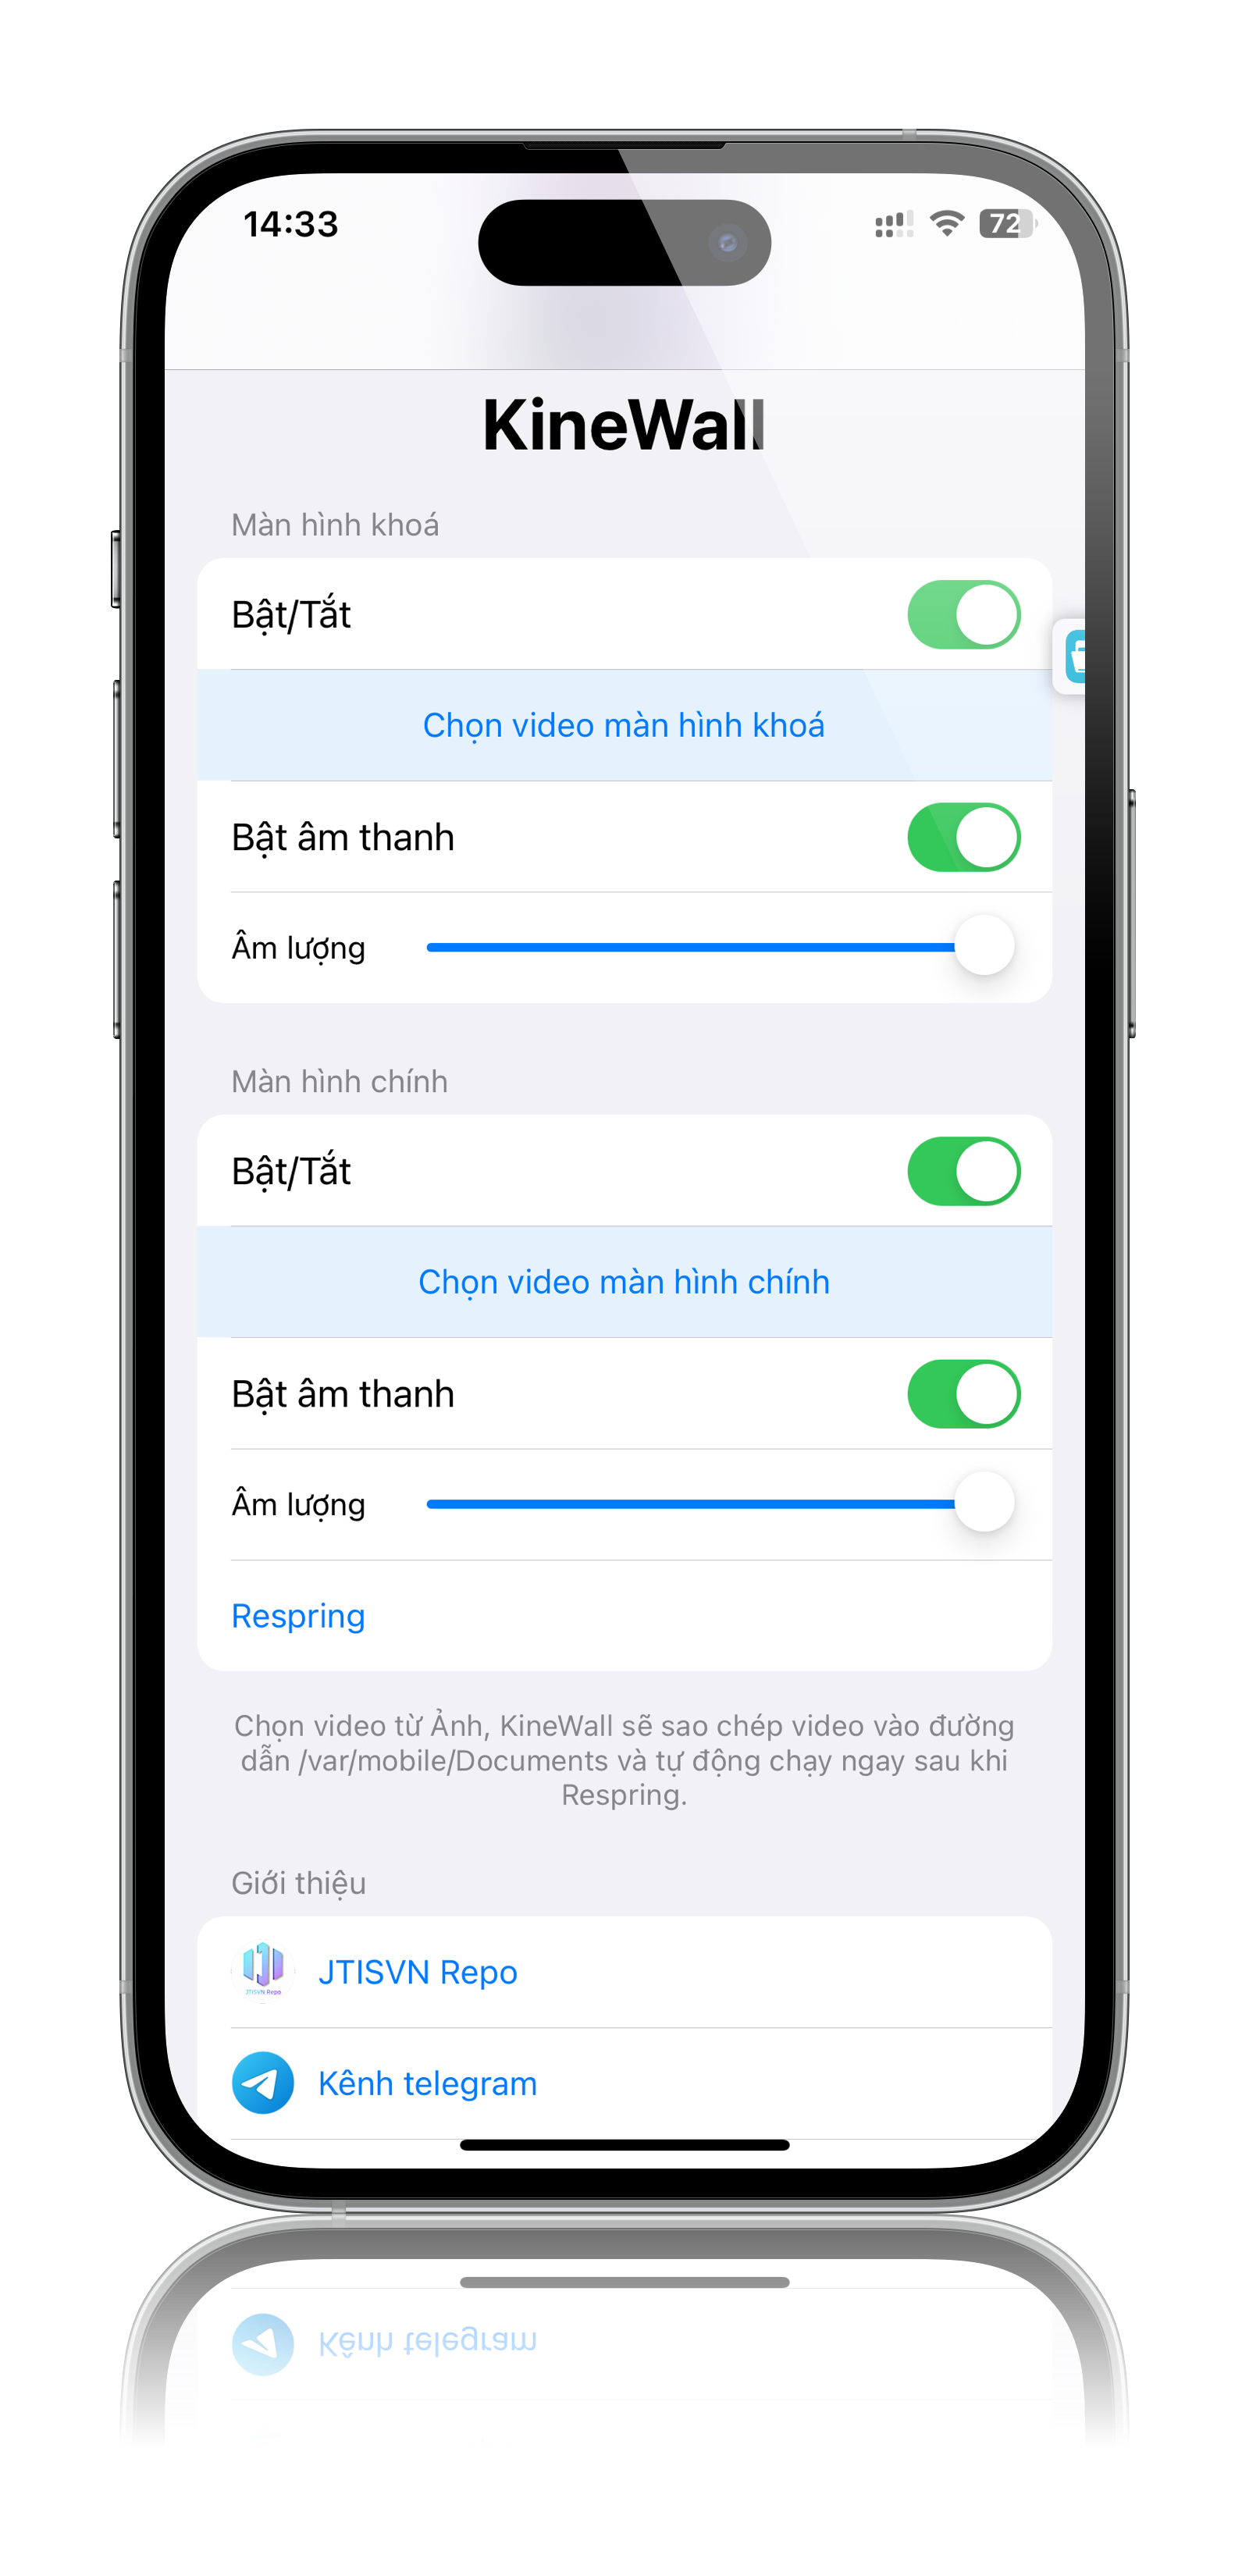
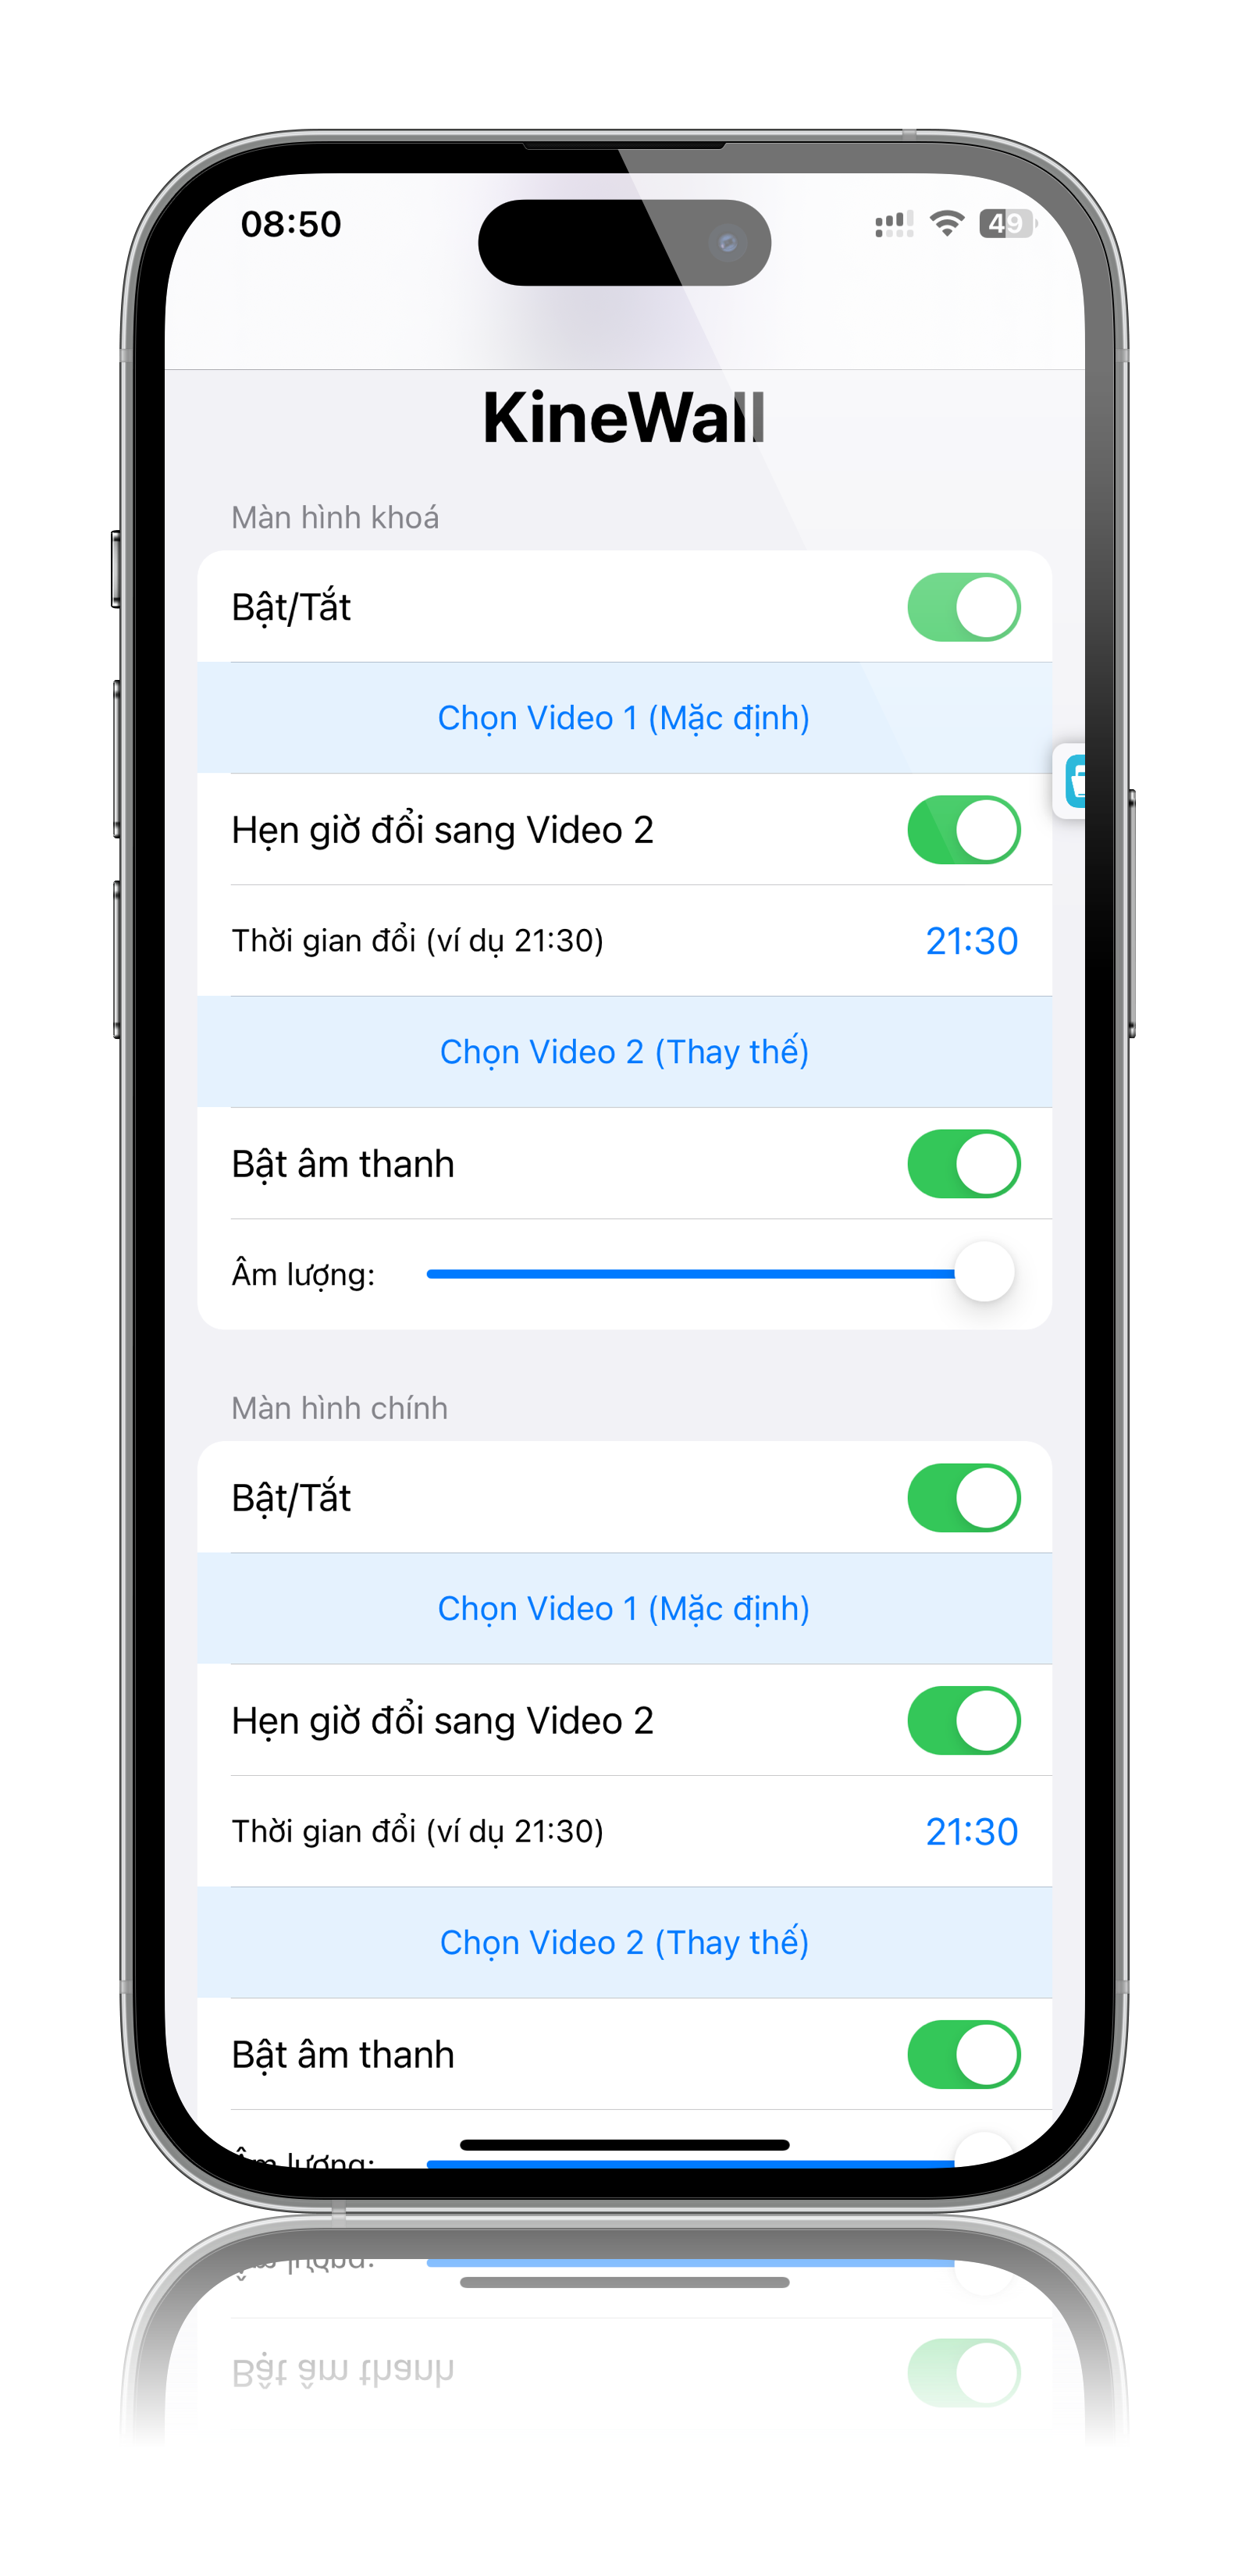
Update: 15-01-2026 09:19

diff --git a/depictions/KineWall.html b/depictions/KineWall.html
@@ -269,7 +269,7 @@
 </head>
 <body>
 
-    <div id="prerequisite" data-min-ios="16.0" data-max-ios="16.8" style="display:none;"></div>
+    <div id="prerequisite" data-min-ios="16.0" data-max-ios="16.6.1" style="display:none;"></div>
 
     <img src="https://jtisvn.github.io/coverimage/jtisvnrepo.png" alt="KineWall Banner" class="banner">
 
@@ -295,15 +295,17 @@
                 <p><strong>KineWall</strong></p>
                 <ul>
                     <li>Ứng dụng cho phép bạn cài đặt Video làm hình nền cho Màn hình khóa và Màn hình chính một cách dễ dàng.</li>
+                    <li>Chỉ hoạt động trên thiết bị <strong>chip A12 trở lên</strong> chạy iOS 16+.</li>
                 </ul>
                 <p><strong>Tính năng:</strong></p>
                 <ul>
                     <li>Tùy chọn video riêng biệt cho màn hình khóa và màn hình chính.</li>
                     <li>Hỗ trợ bật/tắt âm thanh của video.</li>
                     <li>Thanh trượt điều chỉnh mức âm lượng video.</li>
+                    <li>Hẹn giờ đổi video tự động theo ý muốn.</li>
                 </ul>
                 <p style="color: #ff3b30; font-weight: bold; background: rgba(255, 59, 48, 0.1); padding: 10px; border-radius: 8px;">
-                    ⚠️ Lưu ý: Chỉ hoạt động trên thiết bị chip A12 iOS 16 trở lên.
+                    ⚠️ Lưu ý quan trọng: Yêu cầu tải gói <strong>oldabi-stub</strong> (nếu dùng Rootless) hoặc <strong>oldabi</strong> (nếu dùng Roothide) trước khi cài đặt tweak này.
                 </p>
             </div>
 
@@ -321,22 +323,22 @@
                         <span class="info-value">Applications</span>
                     </div>
                     <div class="info-item">
-                        <span class="info-label">Ngày tải lên</span>
-                        <span class="info-value">14/1/2026</span>
+                        <span class="info-label">Ngày cập nhật</span>
+                        <span class="info-value">15/1/2026</span>
                     </div>
                 </div>
                 <div class="info-column">
                     <div class="info-item">
                         <span class="info-label">Phiên bản</span>
-                        <span class="info-value">1.0.0</span>
+                        <span class="info-value">1.0.1</span>
                     </div>
                     <div class="info-item">
                         <span class="info-label">Kích thước</span>
-                        <span class="info-value">440,8 KB</span>
+                        <span class="info-value">493,1 KB</span>
                     </div>
                     <div class="info-item">
                         <span class="info-label">Tương thích iOS</span>
-                        <span class="info-value">16.0 - 16.8</span>
+                        <span class="info-value">16.0 - 16.6.1</span>
                     </div>
                 </div>
             </div>
@@ -344,6 +346,12 @@
         </div>
 
         <div id="changelog" class="tab-content">
+            <h3 style="margin-top: 10px;">Phiên bản 1.0.1</h3>
+            <ul>
+                <li>Thêm chức năng hẹn giờ đổi video tự động.</li>
+                <li>Sửa lỗi mất tiếng trên iOS 16.5.1-16.6.1 (Nathanir & Bootstrap).</li>
+            </ul>
+            <div class="separator"></div>
             <h3 style="margin-top: 10px;">Phiên bản 1.0.0</h3>
             <ul>
                 <li>Phát hành lần đầu.</li>
@@ -356,6 +364,9 @@
             <div style="margin-top: 10px;">
                 <a href="https://paypal.me/HiuKitsudo" class="action-btn" target="_blank">
                     Paypal <span>&#8594;</span>
+                </a>
+                <a href="https://jtisvn.github.io/depictions/KineWall.html" class="action-btn" target="_blank">
+                    Xem mô tả tinh chỉnh <span>&#8594;</span>
                 </a>
                 <a href="https://jtisvn.github.io/homepage/donate/donate.html" class="action-btn" target="_blank">
                     Ủng hộ tôi một ly cà phê <span>&#8594;</span>
@@ -411,7 +422,6 @@
 
     <script>
         const VERSION_CHECK_SUPPORTED = "✅ Phiên bản iOS của bạn được hỗ trợ! &#x1f60a;";
-        /* Icon mặt buồn khi không hỗ trợ */
         const VERSION_CHECK_UNCONFIRMED = "❌ Rất tiếc, phiên bản iOS hiện tại không hỗ trợ! %s &#x1f61e;"; 
 
         (function (document) {